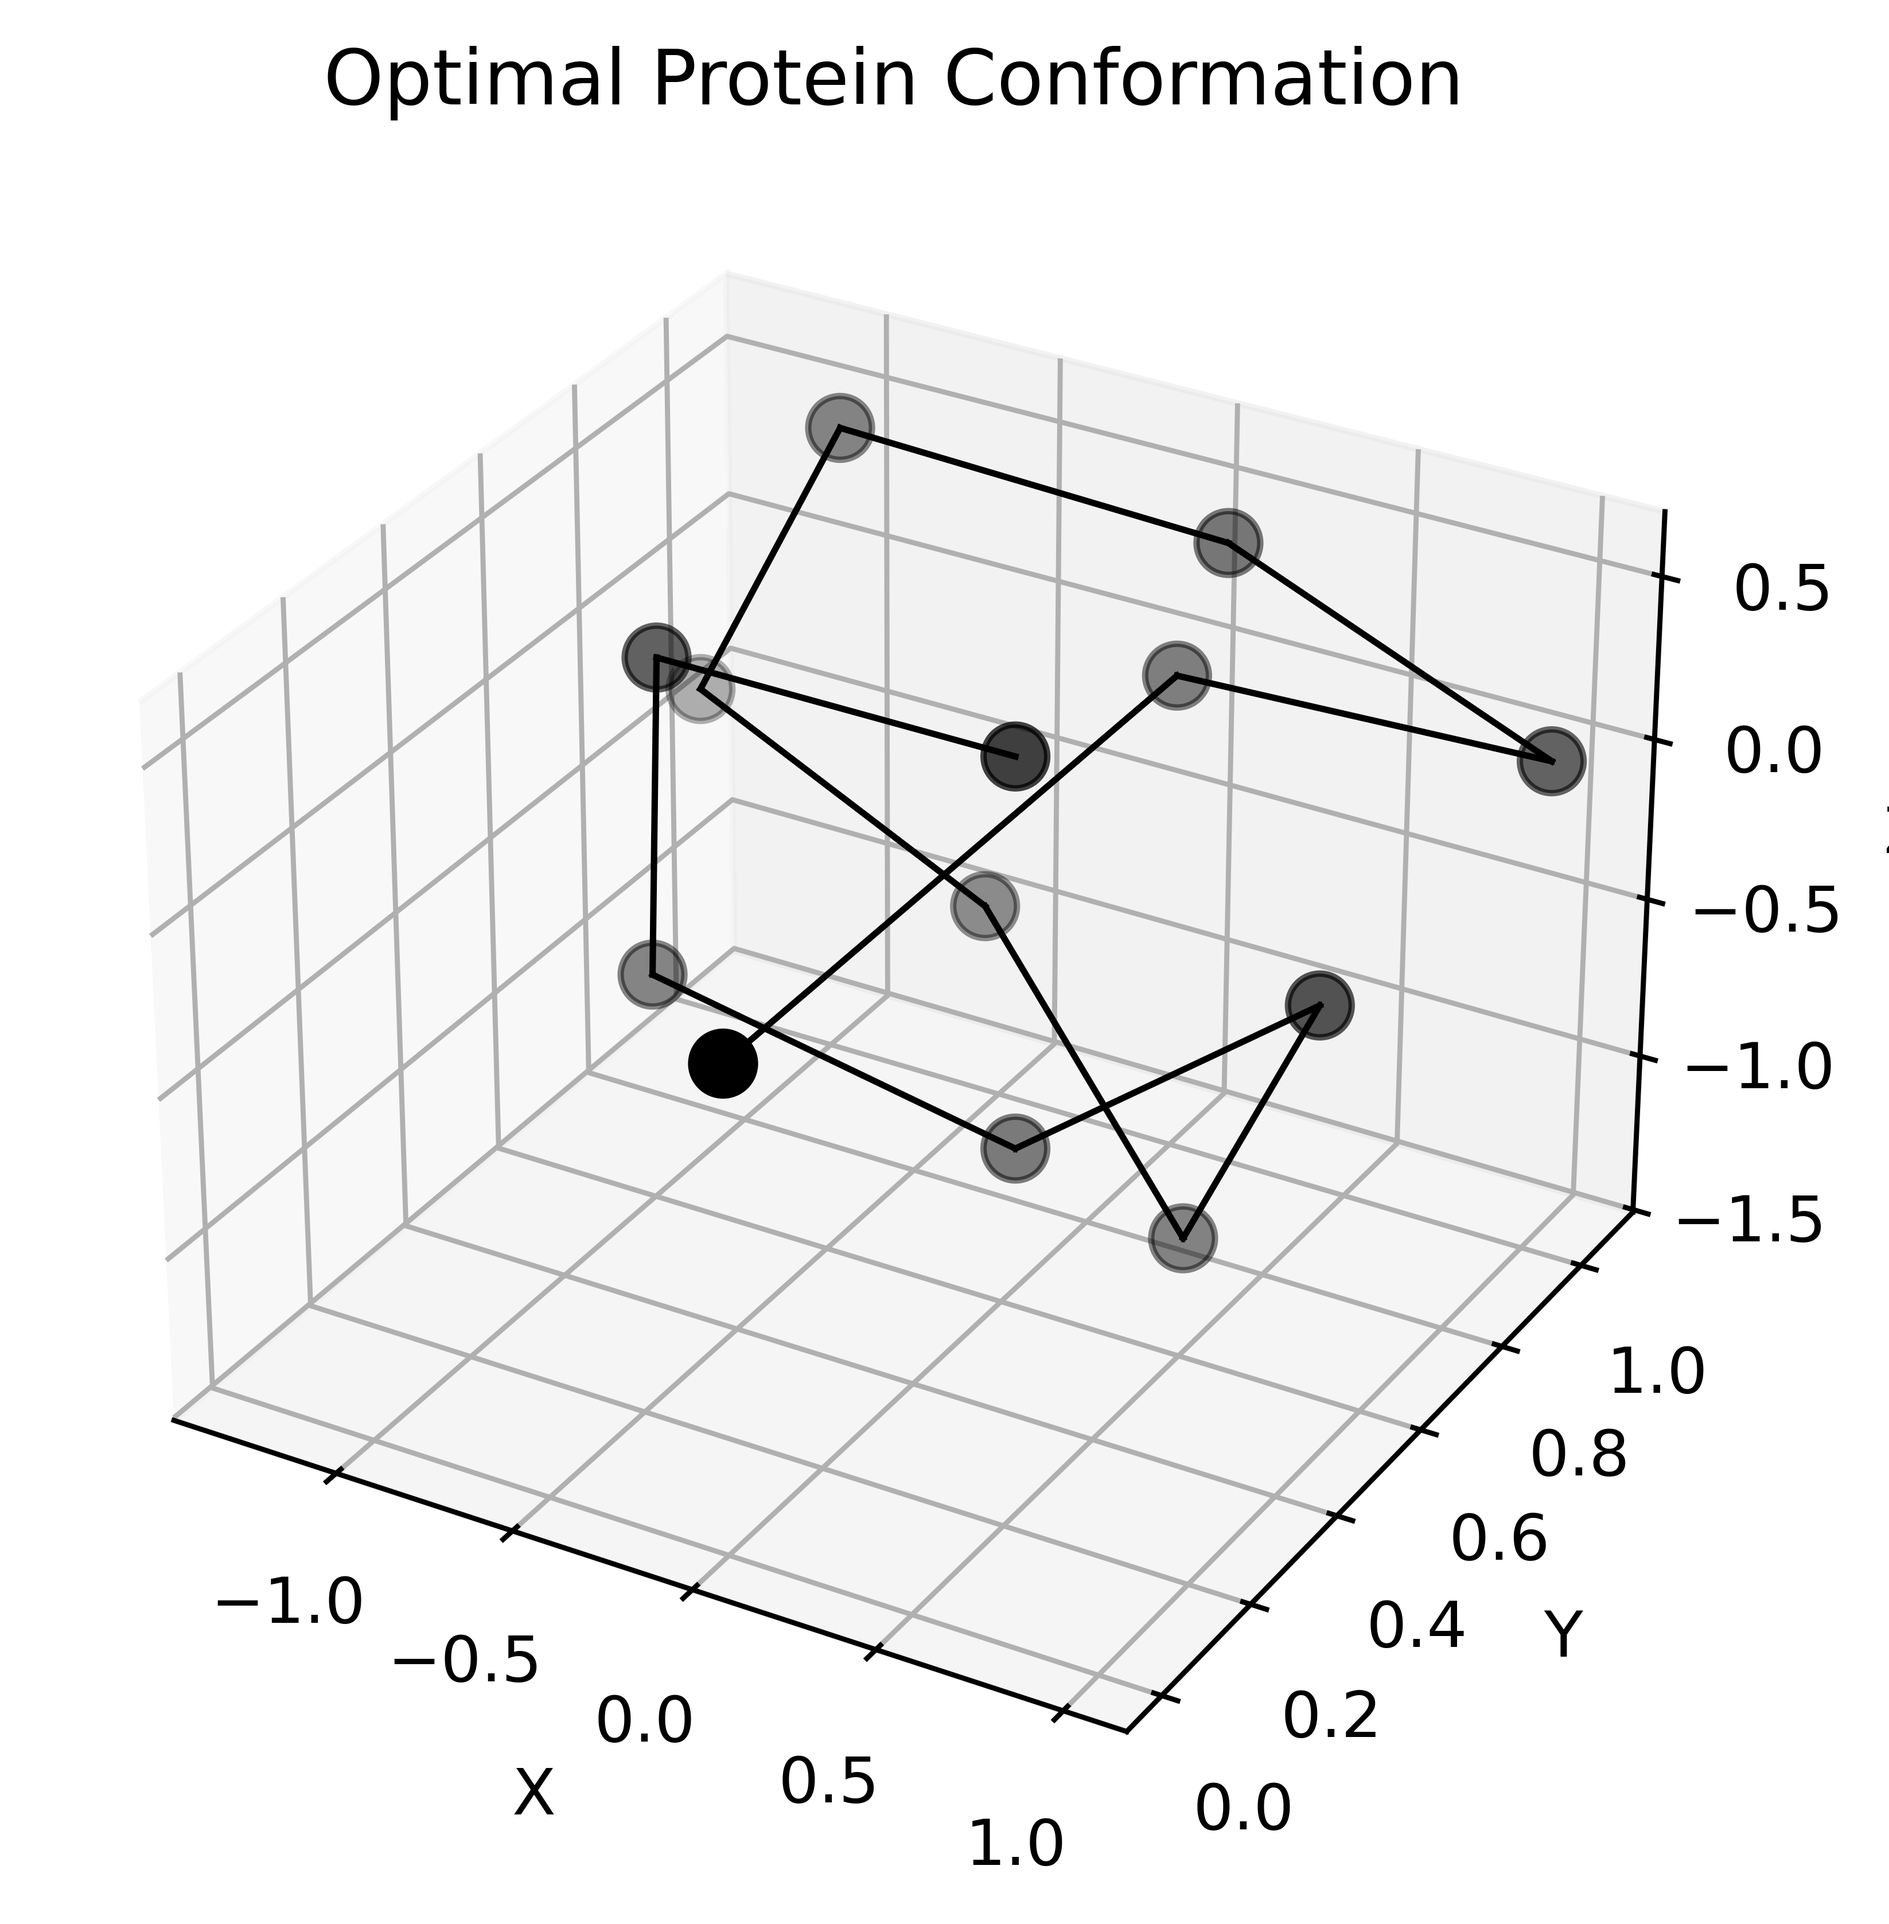
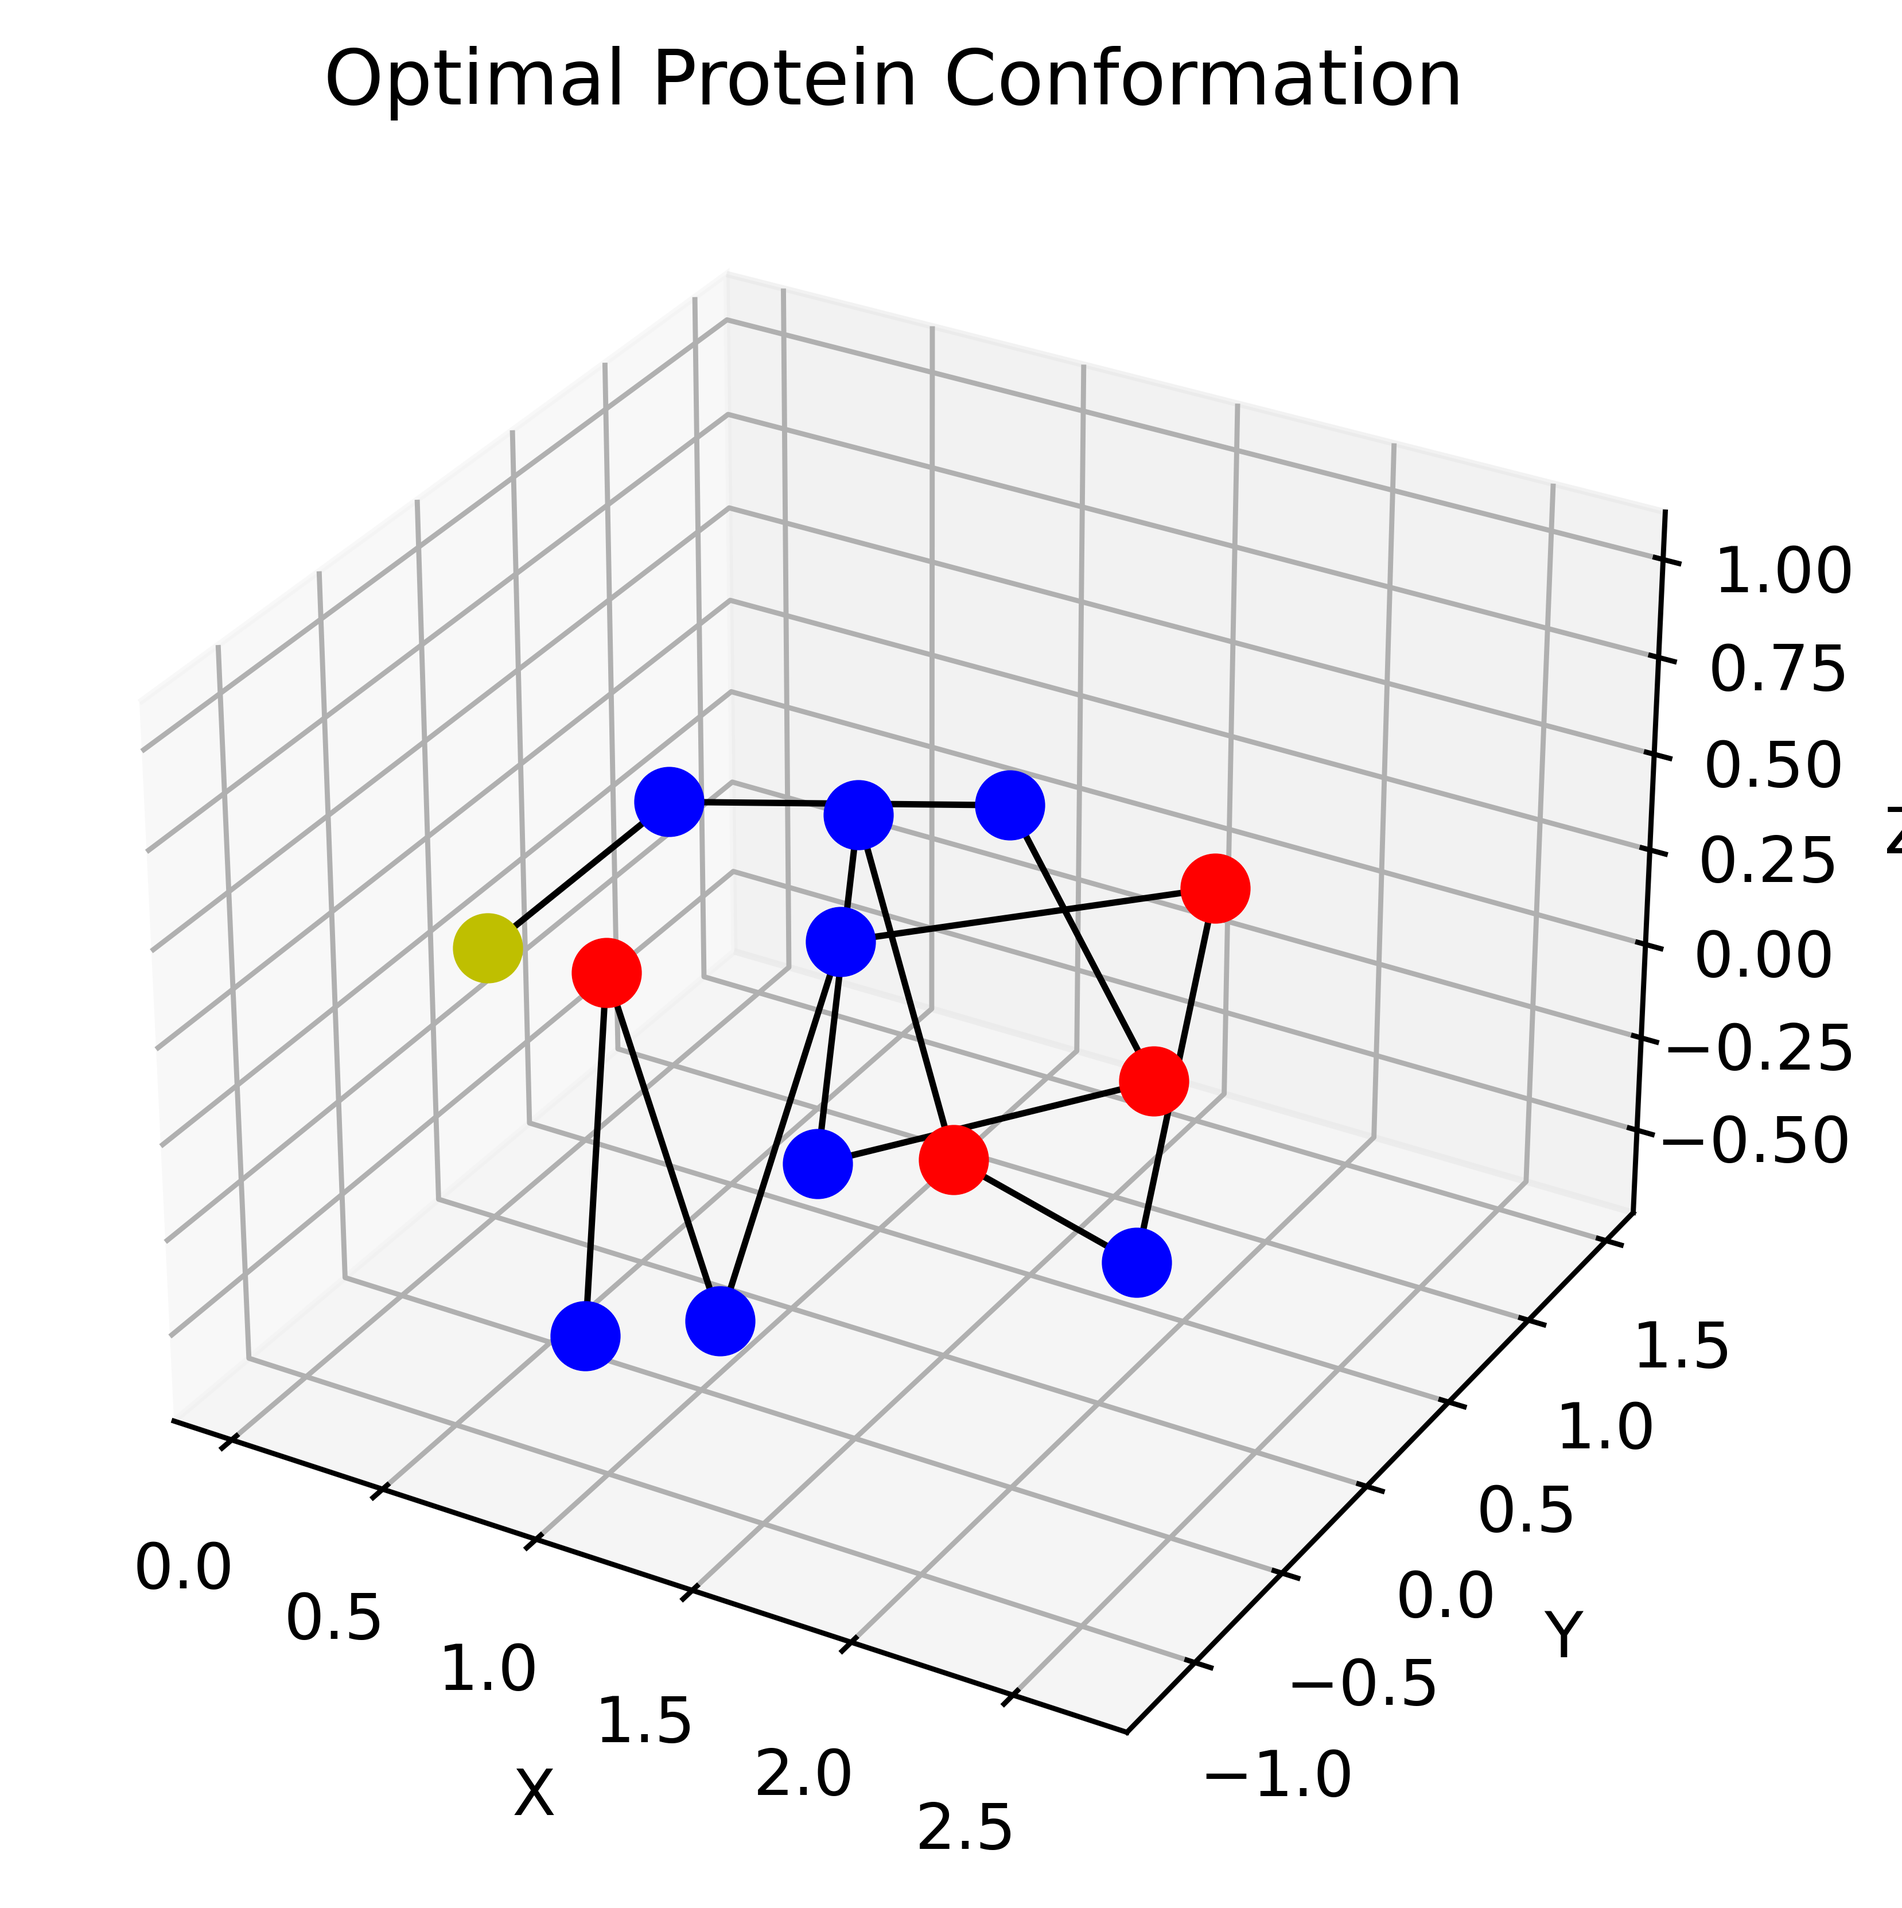
v1.3

diff --git a/src_np.py b/src_np.py
@@ -6,20 +6,21 @@ import time
 
 
 @dataclass
-class AnnealingOutput:
-    optimal_alpha: ArrayLike 
-    optimal_beta: ArrayLike 
-    optimal_energies: ArrayLike
-    optimal_conformations: ArrayLike
-    optimalest_energy: float 
-    optimalest_conformation: ArrayLike
-    param_num_accepts: ArrayLike
-    param_num_rejects: ArrayLike
-    param_inv_temps: ArrayLike
+class AnnealerOutput:
+    alpha: ArrayLike
+    beta: ArrayLike 
+    energies: ArrayLike
+    conformations: ArrayLike
+    optimal_energy: float 
+    optimal_conformation: ArrayLike
+    p_num_accepts: ArrayLike
+    p_num_rejects: ArrayLike
+    p_inv_temps: ArrayLike
+    residues: ArrayLike
 
 def get_coefficient(
-    param_i: bool, 
-    param_j: bool, 
+    param_i: int, 
+    param_j: int, 
 ) -> float: 
     
     """
@@ -28,11 +29,11 @@ def get_coefficient(
     If both are 1, then it returns 1 
     If one is 0, it returns 0.5 
     If both are 0, it returns 0.5
-
+    
     :param i: First residue 
     :param j: Second residue  
     """
-
+    
     if(param_i + param_j == 2): 
         return 1
     return 0.5
@@ -41,9 +42,9 @@ def get_coefficient(
 get_coefficient = np.vectorize(get_coefficient)
 
 def get_conformation(
-    param_size: int,
-    param_alphas: ArrayLike, 
-    param_betas: ArrayLike,
+    size: int, 
+    alpha: ArrayLike, 
+    beta: ArrayLike,
 ) -> ArrayLike: 
     
     """
@@ -54,31 +55,30 @@ def get_conformation(
     :param alphas: Vector of bond angles 
     :param betas: Vector of torsion angles 
     :raises ValueError: If the size is less than 3
-
+    
     """
-
-    if(param_size < 3): 
+    
+    if(size < 3): 
         raise ValueError(f'Make sure your number of residues is greater than 3')
-    cos_alpha = np.cos(param_alphas)
-    cos_beta = np.cos(param_betas)
-    sin_alpha = np.sin(param_alphas)
-    sin_beta = np.sin(param_betas)
-    positions = np.zeros((param_size, 3), dtype=np.float64)
+    cos_alpha = np.cos(alpha)
+    cos_beta = np.cos(beta)
+    sin_alpha = np.sin(alpha)
+    sin_beta = np.sin(beta)
+    positions = np.zeros((size, 3), dtype=np.float64)
     positions[0] = np.array([0,0,0])
     positions[1] = np.array([0,1,0])
     positions[2] = positions[1] + np.array([cos_alpha[0], sin_alpha[0], 0])
-    for i in range(param_size-3): 
+    for i in range(size-3): 
         positions[i+3] = positions[i+2]+np.array([cos_alpha[i+1]*cos_beta[i], sin_alpha[i+1]*cos_beta[i], sin_beta[i]]) 
-    
     return positions
 
 def get_energy(
-        param_alpha: ArrayLike, 
-        param_beta: ArrayLike, 
-        param_residues: ArrayLike, 
-        param_conformation: ArrayLike,
-        param_k_1: float = 1.0, 
-        param_k_2: float = 0.5
+    alpha: ArrayLike, 
+    beta: ArrayLike, 
+    residues: ArrayLike, 
+    conformation: ArrayLike, 
+    k_1: float=1.0, 
+    k_2: float=0.5
 ) -> float: 
     
     """ 
@@ -98,17 +98,19 @@ def get_energy(
     
     """
     
-    backbone_bending_energy = -(param_k_1**param_alpha.shape[0]) * np.sum(np.cos(param_alpha))
-    torsion_energy = -(param_k_2**param_beta.shape[0]) * np.sum(np.cos(param_beta))
+    backbone_bending_energy = -k_1 * np.sum(np.cos(alpha))
+    torsion_energy = -k_2 * np.sum(np.cos(beta))
     
     # Computation of the distance matrix using a vector of residue positions. 
-    distance_matrix = np.linalg.norm(param_conformation[:, np.newaxis] - param_conformation, axis=-1)
+    distance_matrix = np.linalg.norm(conformation[:, np.newaxis] - conformation, axis=-1)
     np.fill_diagonal(distance_matrix, np.inf)
     distance_matrix = distance_matrix**(-12) - distance_matrix**(-6)  
-    total_energy = backbone_bending_energy + torsion_energy + np.sum(np.triu(4*distance_matrix*get_coefficient(param_residues[:, np.newaxis], param_residues), k=2))
+    coeff = get_coefficient(residues[:, np.newaxis], residues).astype(np.float64)
+    coeff[coeff == 0.0] = 0.5
+    total_energy = backbone_bending_energy + torsion_energy + np.sum(np.triu(4*distance_matrix, k=2))
     return total_energy
 
-def annealer(
+def n_annealer(
         residues: ArrayLike, 
         start_temp: float,  
         end_temp: float,
@@ -119,7 +121,7 @@ def annealer(
         init_beta: ArrayLike = None,
         k_1: float = 1.0,
         k_2: float = 0.5,
-) -> AnnealingOutput: 
+) -> AnnealerOutput: 
     
     """ 
     
@@ -166,15 +168,15 @@ def annealer(
     accepts = np.zeros(num_iterations)
     rejects = np.zeros(num_iterations)
     conformation = get_conformation(
-        param_alphas=alpha_v, 
-        param_betas=beta_v, 
-        param_size=residues.shape[0]
+        alpha=alpha_v, 
+        beta=beta_v, 
+        size=residues.shape[0]
     )
     args = {
-        'param_alpha':alpha_v,
-        'param_beta': beta_v,
-        'param_residues': residues,
-        'param_conformation': conformation
+        'alpha':alpha_v,
+        'beta': beta_v,
+        'residues': residues,
+        'conformation': conformation
     }
     
     energy = get_energy(**args)
@@ -202,12 +204,12 @@ def annealer(
                 new_alpha_v[random_i] += (np.random.uniform(0,1)-0.5)*np.random.uniform(0,1)*(1-step/num_iterations)**lam
             
             new_conformation = get_conformation(
-                param_alphas=new_alpha_v, 
-                param_betas=new_beta_v, 
-                param_size=residues.shape[0]
+                alpha=new_alpha_v, 
+                beta=new_beta_v, 
+                size=residues.shape[0]
             )
             
-            args['param_alpha'], args['param_beta'], args['param_conformation'] = new_alpha_v, new_beta_v, new_conformation
+            args['alpha'], args['beta'], args['conformation'] = new_alpha_v, new_beta_v, new_conformation
             # Calculate the changes in energy level
             new_energy = get_energy(**args) 
             energy_change = new_energy - energy
@@ -233,18 +235,19 @@ def annealer(
     num_accepts, num_rejects = np.cumsum(accepts, axis=0), np.cumsum(rejects, axis=0)
     
     annealing_attributes = { 
-        'optimal_alpha': alpha_v,
-        'optimal_beta': beta_v,
-        'optimal_energies': energies,
-        'optimal_conformations': conformations,
-        'optimalest_energy': optimal_energy,
-        'optimalest_conformation': optimal_conformation,
-        'param_num_accepts': num_accepts,
-        'param_num_rejects': num_rejects,
-        'param_inv_temps': inv_temps,
+        'alpha': alpha_v,
+        'beta': beta_v,
+        'energies': energies,
+        'conformations': conformations,
+        'optimal_energy': optimal_energy,
+        'optimal_conformation': optimal_conformation,
+        'p_num_accepts': num_accepts,
+        'p_num_rejects': num_rejects,
+        'p_inv_temps': inv_temps,
+        'residues': residues
     }
     
-    return AnnealingOutput(**annealing_attributes)
+    return AnnealerOutput(**annealing_attributes)
 
 def artificial_protein(n):
     S = [np.array([1]), np.array([0])]

diff --git a/diagnostics.py b/diagnostics.py
@@ -4,23 +4,22 @@
 Small script with a use-case example of anneal.py
 """
 
-from src import annealer
+from src_np import n_annealer
+from src_t import t_annealer
 import matplotlib as mpl
-import json 
+import torch
 import matplotlib.pyplot as plt
 import numpy as np
 import time
 from mpl_toolkits.mplot3d import Axes3D
-from src import get_energy, get_conformation, artificial_protein
-f = open('params.json')
-params = json.load(f)
+from src_np import artificial_protein
 
 
-def example():
+def example(s):
     
     fibonacci_index = 6
     res = artificial_protein(fibonacci_index)
-    print(res)
+    
     # define annealing arguments, track time to run
     kwargs = {
         'residues': res, 
@@ -28,34 +27,23 @@ def example():
         'end_temp': 10**(-12), 
         'gamma': 0.99,
         'lam': 3.0,
-        'ml': 1000,
+        'ml': 10,
     }
-    if(len(params['alpha_vector']) == res.size-2): 
-        kwargs['init_alpha'] = np.array(params['alpha_vector'])
-    if(len(params['beta_vector']) == res.size-3): 
-        kwargs['init_beta'] = np.array(params['beta_vector'])
-    f.close()
+   
     num_steps = (int)(np.log10(kwargs['end_temp']/kwargs['start_temp'])/np.log10(kwargs['gamma']))
     # perform run
     past = time.perf_counter()
-    run = annealer(**kwargs)
+    run = n_annealer(**kwargs) if s=='n' else t_annealer(**kwargs)
     present = time.perf_counter()
     sec_elapsed = present - past
     print(f'Annealer run with {num_steps:.0f} steps took {sec_elapsed:.3f} seconds')
-    print(f'\n Optimal Energy: {run.optimal_energies[-1]}')
-    data = { 
-        "alpha_vector": list(run.optimal_alpha), 
-        "beta_vector": list(run.optimal_beta)
-    }
-    json_object = json.dumps(data, indent=2)
-    with open("params.json", "w") as outfile: 
-        outfile.write(json_object)
-    print(f'Alpha Vector: {run.optimal_alpha}')
-    print(f'Beta Vector: {run.optimal_beta}')
+    print(f'\n Optimal Energy: {run.energies[-1]}')
  
     # Run Data
-    plt.plot(run.param_inv_temps, run.optimal_energies)
-    plt.axhline(run.optimalest_energy, color='black', linestyle=':')
+    energies = run.energies
+    energies[energies>(run.optimal_energy+10)] = 0
+    plt.plot(run.p_inv_temps, run.energies)
+    plt.axhline(run.optimal_energy, color='black', linestyle=':')
     plt.grid()
     plt.xlabel(r'$\frac{1}{T} $')
     plt.ylabel('energy')
@@ -65,7 +53,7 @@ def example():
     plt.close()
     
     # Acceptance vs Progress of Annealing
-    plt.plot(np.arange(num_steps), run.param_num_rejects)
+    plt.plot(np.arange(num_steps), run.p_num_accepts)
     plt.grid()
     plt.xlabel('metropolis step')
     plt.ylabel('number of acceptances')
@@ -73,7 +61,7 @@ def example():
     plt.close()
     
     # 2D Projection of Model
-    optimal_conformation = run.optimalest_conformation
+    optimal_conformation = run.optimal_conformation
     plt.figure(figsize=(8, 6))
     plt.scatter(optimal_conformation[:, 0], optimal_conformation[:, 1], color='black', marker='o', s=50)
     plt.plot(optimal_conformation[:, 0], optimal_conformation[:, 1], marker='o', color='black', linestyle='-')
@@ -90,7 +78,14 @@ def example():
     # Optimal Configuration
     fig = plt.figure()
     ax = fig.add_subplot(111, projection='3d')
-    ax.scatter(optimal_conformation[:, 0], optimal_conformation[:, 1], optimal_conformation[:, 2], c='k', marker='o',s=100)
+    for i in range(optimal_conformation.shape[0]):
+        if i == 0: 
+            ax.scatter(optimal_conformation[i, 0], optimal_conformation[i, 1], optimal_conformation[i, 2], c='y', marker='o',s=100)
+            continue
+        if(run.residues[i] == 1): 
+            ax.scatter(optimal_conformation[i, 0], optimal_conformation[i, 1], optimal_conformation[i, 2], c='r', marker='o',s=100)
+        else: 
+            ax.scatter(optimal_conformation[i, 0], optimal_conformation[i, 1], optimal_conformation[i, 2], c='b', marker='o',s=100)
     for i in range(len(optimal_conformation) - 1):
         ax.plot([optimal_conformation[i, 0], optimal_conformation[i + 1, 0]],
                 [optimal_conformation[i, 1], optimal_conformation[i + 1, 1]],
@@ -104,6 +99,6 @@ def example():
     plt.savefig('run_data/conformation.png', dpi=800, bbox_inches='tight')
     plt.show()
     plt.close()
-    return run.optimalest_energy
-
-example()
+    return run.optimal_energy
+    
+example('n')
